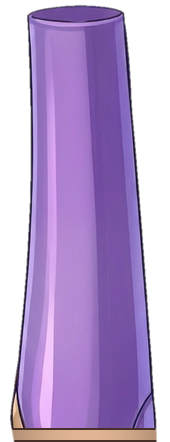
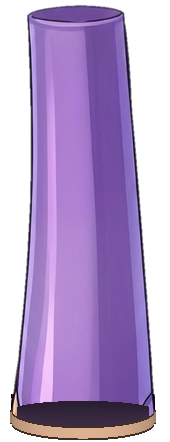
kohako-studio: 小手の筒口を楕円の金縁と暗い開口にし、照れの前腕を短くする (BOXP-476)
独立実操作レビュー(758b7e88)の指摘「平らな切り口が硬い」「照れの前腕が長い棒」へ対応。?acting=1 限定、生成0回。
- fore-bent.png の切り口を円筒の口を斜めから見た弧にし、金縁の内側に暗い開口を入れる
- 照れの保持の肘を (725,700)(袖の下縁の約55px下)へ寄せ、前腕を休止の約1.16倍に短縮

Changed region(s): [[0.0588, 0.8824, 0.9412, 1.0]]

diff --git a/apps/kohako-studio/web/src/live2d/gesture.ts b/apps/kohako-studio/web/src/live2d/gesture.ts
@@ -56,10 +56,10 @@ const GUIDE: ArmPose = { up: 0, upS: 1, fo: -1.92, foS: 1, ha: 0.15, haS: 1, elb
 const HALT: ArmPose = { up: 0, upS: 1, fo: -2.05, foS: 1, ha: 0.1, haS: 1.1, elbowTo: ELBOW_OUT, front: true, art: 'palm', artW: 1 }
 const HALT_RISE: ArmPose = { up: 0, upS: 1, fo: -1.1, foS: 1, ha: 0.2, haS: 1.05, elbowTo: [805, 725], front: true, art: 'palm', artW: 0 }
 // 照れ: 肘は体の脇寄りに残し、前腕を胸の前へ斜めに渡して手を口元へ運ぶ。肘を胸の中央まで寄せると前腕が上腕の真下に立って上腕が読めない（#14730 P1）。
-const SHY: ArmPose = { up: 0, upS: 1, fo: 3.02, foS: 1.355, ha: 0.19, haS: 0.95, elbowTo: [742, 715], front: true, art: 'cover', artW: 1 }
+const SHY: ArmPose = { up: 0, upS: 1, fo: 3.045, foS: 1.23, ha: 0.19, haS: 0.95, elbowTo: [725, 700], front: true, art: 'cover', artW: 1 }
 // 手を口元へ運ぶ途中は、前腕を画面の横へ倒さず手前へ向ける（短縮）。手は体の前をほぼ縦に上がり、腹の前を横切らない。
 const SHY_DOWN: ArmPose = { up: 0, upS: 1, fo: 0.9, foS: 0.45, ha: 2.15, haS: 0.98, elbowTo: [735, 705], front: true, art: 'cover', artW: 0 }
-const SHY_RISE: ArmPose = { up: 0, upS: 1, fo: 2.7, foS: 0.9, ha: 0.45, haS: 0.98, elbowTo: [740, 712], front: true, art: 'cover', artW: 0 }
+const SHY_RISE: ArmPose = { up: 0, upS: 1, fo: 2.7, foS: 0.9, ha: 0.45, haS: 0.98, elbowTo: [728, 702], front: true, art: 'cover', artW: 0 }
 const JOY: ArmPose = { up: 0, upS: 1, fo: -1.85, foS: 1, ha: 0.25, haS: 1, elbowTo: ELBOW_OUT }
 
 export const clips: Record<Exclude<Gesture, 'none'>, Clip> = {
